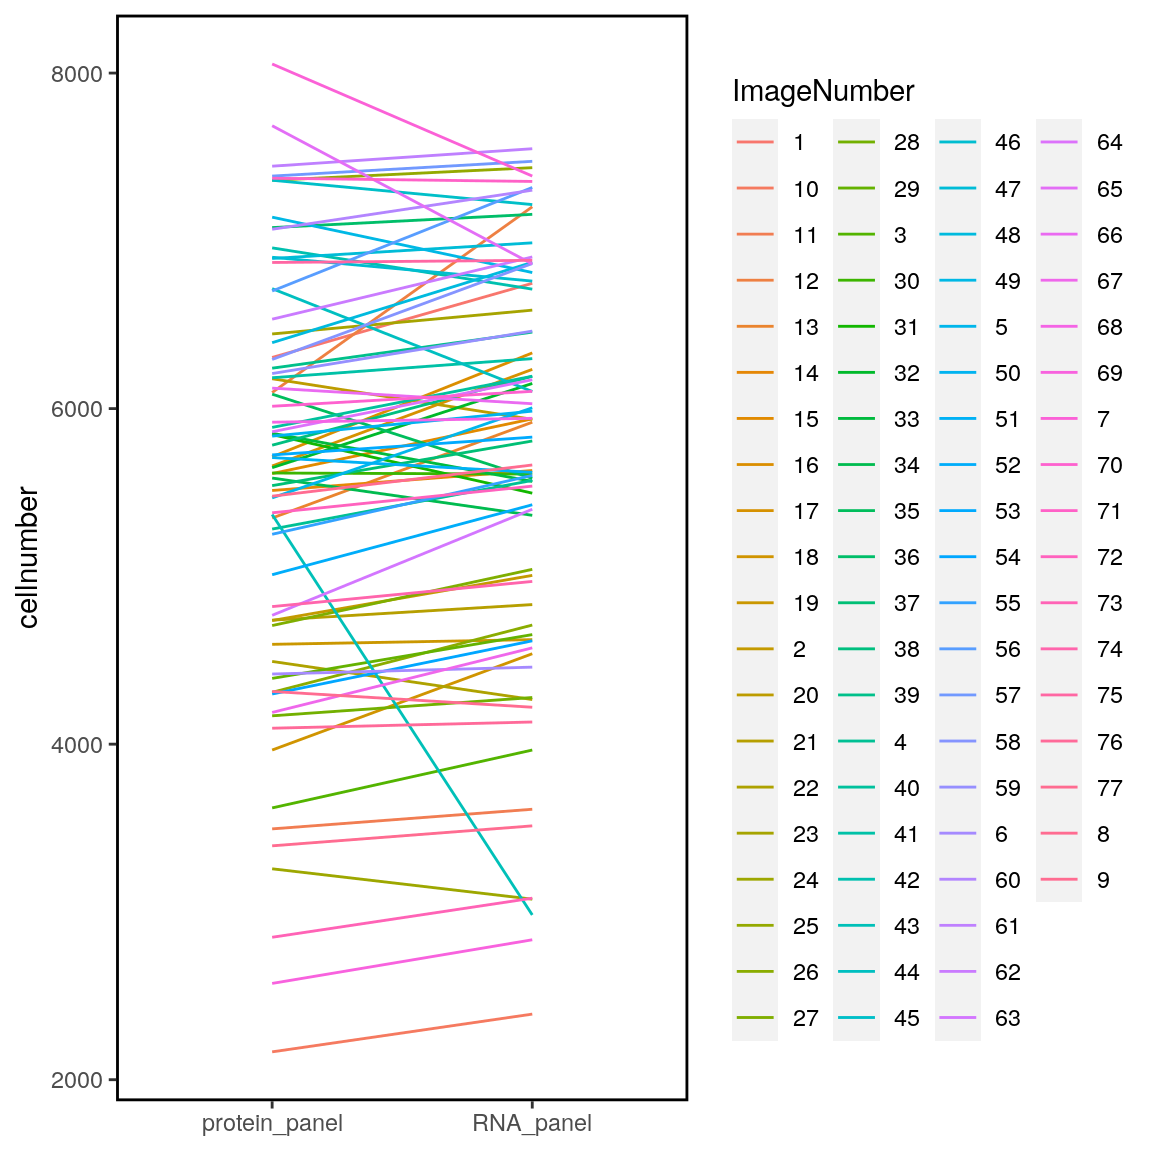
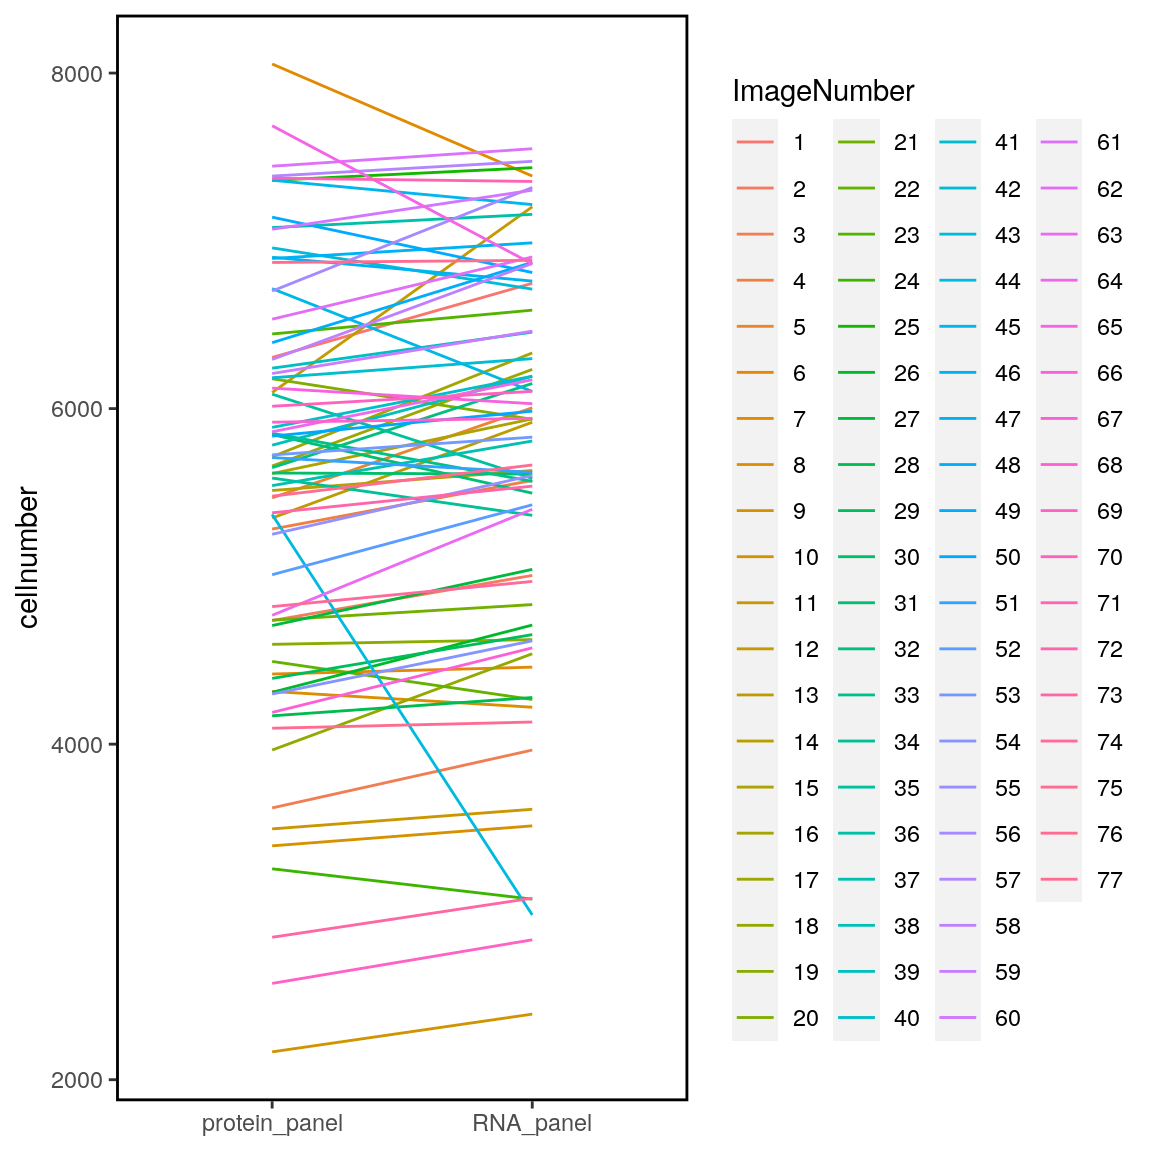
Build site.

diff --git a/docs/01_quality_control.html b/docs/01_quality_control.html
@@ -413,7 +413,7 @@ div.tocify {
 <div class="tab-content">
 <div id="summary" class="tab-pane fade in active">
 <p>
-<strong>Last updated:</strong> 2020-11-02
+<strong>Last updated:</strong> 2020-11-24
 </p>
 <p>
 <strong>Checks:</strong> <span class="glyphicon glyphicon-ok text-success" aria-hidden="true"></span> 7 <span class="glyphicon glyphicon-exclamation-sign text-danger" aria-hidden="true"></span> 0
@@ -504,16 +504,16 @@ This reproducible <a href="http://rmarkdown.rstudio.com">R Markdown</a> analysis
 <div class="panel panel-default">
 <div class="panel-heading">
 <p class="panel-title">
-<a data-toggle="collapse" data-parent="#workflowr-checks" href="#strongRepositoryversionstrongahrefhttpsgithubcomSandraTietscherBCexhIMCtree9d40eaa891f44424daff9b2f47e0e0c49599fdcdtargetblank9d40eaaa"> <span class="glyphicon glyphicon-ok text-success" aria-hidden="true"></span> <strong>Repository version:</strong> <a href="https://github.com/SandraTietscher/BCexh_IMC/tree/9d40eaa891f44424daff9b2f47e0e0c49599fdcd" target="_blank">9d40eaa</a> </a>
+<a data-toggle="collapse" data-parent="#workflowr-checks" href="#strongRepositoryversionstrongahrefhttpsgithubcomSandraTietscherBCexhIMCtreefabf77f75f398f4e77442ed746d588f3c62c4b0ftargetblankfabf77fa"> <span class="glyphicon glyphicon-ok text-success" aria-hidden="true"></span> <strong>Repository version:</strong> <a href="https://github.com/SandraTietscher/BCexh_IMC/tree/fabf77f75f398f4e77442ed746d588f3c62c4b0f" target="_blank">fabf77f</a> </a>
 </p>
 </div>
[2 lines of base64/hex data omitted]
 <div class="panel-body">
 <p>
 Great! You are using Git for version control. Tracking code development and connecting the code version to the results is critical for reproducibility.
 </p>
 <p>
-The results in this page were generated with repository version <a href="https://github.com/SandraTietscher/BCexh_IMC/tree/9d40eaa891f44424daff9b2f47e0e0c49599fdcd" target="_blank">9d40eaa</a>. See the <em>Past versions</em> tab to see a history of the changes made to the R Markdown and HTML files.
+The results in this page were generated with repository version <a href="https://github.com/SandraTietscher/BCexh_IMC/tree/fabf77f75f398f4e77442ed746d588f3c62c4b0f" target="_blank">fabf77f</a>. See the <em>Past versions</em> tab to see a history of the changes made to the R Markdown and HTML files.
 </p>
 <p>
 Note that you need to be careful to ensure that all relevant files for the analysis have been committed to Git prior to generating the results (you can use <code>wflow_publish</code> or <code>wflow_git_commit</code>). workflowr only checks the R Markdown file, but you know if there are other scripts or data files that it depends on. Below is the status of the Git repository when the results were generated:
@@ -523,26 +523,25 @@ Ignored files:
     Ignored:    analysis/.Rhistory
 
 Untracked files:
-    Untracked:  analysis/11_RNApanel_neighbourhood.Rmd
-    Untracked:  code/helper_functions/
-    Untracked:  data/Ki67_IHC.csv
-    Untracked:  data/ProteinPanel_TNK_clusters.csv
-    Untracked:  data/ProteinPanel_stromal_clusters.csv
-    Untracked:  data/ProteinPanel_tumor_stroma_clusters.csv
-    Untracked:  data/RNApanel_TNK_clusters.csv
-    Untracked:  data/RNApanel_stromal_clusters.csv
-    Untracked:  data/RNApanel_tumor_stroma_clusters.csv
+    Untracked:  CD11c_CD68_scatter.png
+    Untracked:  Neighbourhood_TLS_relative.pdf
+    Untracked:  Neighbourhood_TLS_relative.png
+    Untracked:  Neighbourhood_all_relative.pdf
+    Untracked:  Neighbourhood_all_relative.png
+    Untracked:  analysis/13_proteinPanel_neighbourhood_extended.Rmd
+    Untracked:  analysis/XX_RNApanel_neighbourhood.Rmd
+    Untracked:  cytokine_environment.png
     Untracked:  data/RNAseq_Tcells.rds
-    Untracked:  data/RNAseq_celltype_prop.csv
     Untracked:  data/RNAseq_epithelial.rds
     Untracked:  data/ROI_info_HIER.csv
-    Untracked:  data/ROI_info_HIER_TLSrevised.csv
     Untracked:  data/ROI_info_RNAscope.csv
-    Untracked:  data/ROI_info_RNAscope_TLSrevised.csv
-    Untracked:  data/TLS_scores.csv
     Untracked:  data/cpout/
-    Untracked:  data/cytof_celltype_prop.csv
     Untracked:  data/masks/
+    Untracked:  heatmap_markerexpression_myeloid_sub.png
+    Untracked:  neighbourhood_myeloid_TIGdifference.png
+    Untracked:  neighbourhood_myeloid_TLS_relative.png
+    Untracked:  neighbourhood_myeloid_all_relative.png
+    Untracked:  neighbourhood_myeloid_split_TLS.png
     Untracked:  output/ProteinPanel/
     Untracked:  output/RNApanel/
     Untracked:  output/TLS_score_25samples.png
@@ -552,11 +551,13 @@ Untracked files:
     Untracked:  output/sce_RNApanel_afterQC.rds
     Untracked:  output/sce_RNApanel_initial.rds
     Untracked:  output/sce_RNApanel_initial_TLSrevised.rds
+    Untracked:  test.pdf
+    Untracked:  test.png
+    Untracked:  test_Treg_enrichment.png
 
 Unstaged changes:
-    Modified:   analysis/07_proteinPanel_TNK_analysis.Rmd
-    Modified:   analysis/08_proteinPanel_neighbourhood.Rmd
-    Modified:   analysis/10_RNApanel_TNK_cytokines.Rmd
+    Modified:   analysis/05_proteinPanel_StromalSubclustering.Rmd
+    Modified:   analysis/11_RNAscope_cytokine_communities.Rmd
 
 </code></pre>
 <p>
@@ -595,6 +596,40 @@ Message
 </tr>
 </thead>
 <tbody>
+<tr>
+<td>
+Rmd
+</td>
+<td>
+<a href="https://github.com/SandraTietscher/BCexh_IMC/blob/fabf77f75f398f4e77442ed746d588f3c62c4b0f/analysis/01_quality_control.Rmd" target="_blank">fabf77f</a>
+</td>
+<td>
+SandraTietscher
+</td>
+<td>
+2020-11-24
+</td>
+<td>
+Minor plot changes
+</td>
+</tr>
+<tr>
+<td>
+html
+</td>
+<td>
+<a href="https://rawcdn.githack.com/SandraTietscher/BCexh_IMC/fbba4795a406403865a38ce1bbf0707381fe395b/docs/01_quality_control.html" target="_blank">fbba479</a>
+</td>
+<td>
+SandraTietscher
+</td>
+<td>
+2020-11-02
+</td>
+<td>
+Build site.
+</td>
+</tr>
 <tr>
 <td>
 Rmd
@@ -820,6 +855,7 @@ protein_cellnumber &lt;- table(sce_protein$ImageNumber, sce_protein$cellnumber) 
 df &lt;- data.frame(ImageNumber = levels(sce_RNA$ImageNumber), RNA_panel = RNA_cellnumber, protein_panel = protein_cellnumber)
 df &lt;- pivot_longer(df, 2:3, names_to = &quot;panel&quot;, values_to = &quot;cellnumber&quot;)
 
+df$ImageNumber &lt;- factor(df$ImageNumber, levels = 1:77)
 ggplot(df, aes(panel, cellnumber))+
   geom_line(aes(group=ImageNumber, color = ImageNumber))+
     theme(axis.title.x = element_blank(),
@@ -914,6 +950,17 @@ Date
 <tbody>
 <tr>
 <td>
+<a href="https://github.com/SandraTietscher/BCexh_IMC/blob/fbba4795a406403865a38ce1bbf0707381fe395b/docs/figure/01_quality_control.Rmd/plot-mean-intensity-RNApanel-1.png" target="_blank">fbba479</a>
+</td>
+<td>
+SandraTietscher
+</td>
+<td>
+2020-11-02
+</td>
+</tr>
+<tr>
+<td>
 <a href="https://github.com/SandraTietscher/BCexh_IMC/blob/1fe88dd28f09f7e44f454829e9d37601f4756b88/docs/figure/01_quality_control.Rmd/plot-mean-intensity-RNApanel-1.png" target="_blank">1fe88dd</a>
 </td>
 <td>
@@ -958,6 +1005,17 @@ Date
 </tr>
 </thead>
 <tbody>
+<tr>
+<td>
+<a href="https://github.com/SandraTietscher/BCexh_IMC/blob/fbba4795a406403865a38ce1bbf0707381fe395b/docs/figure/01_quality_control.Rmd/plot-mean-intensity-RNApanel-2.png" target="_blank">fbba479</a>
+</td>
+<td>
+SandraTietscher
+</td>
+<td>
+2020-11-02
+</td>
+</tr>
 <tr>
 <td>
 <a href="https://github.com/SandraTietscher/BCexh_IMC/blob/1fe88dd28f09f7e44f454829e9d37601f4756b88/docs/figure/01_quality_control.Rmd/plot-mean-intensity-RNApanel-2.png" target="_blank">1fe88dd</a>
@@ -1009,6 +1067,17 @@ Date
 <tbody>
 <tr>
 <td>
+<a href="https://github.com/SandraTietscher/BCexh_IMC/blob/fbba4795a406403865a38ce1bbf0707381fe395b/docs/figure/01_quality_control.Rmd/plot-mean-intensity-ProteinPanel-1.png" target="_blank">fbba479</a>
+</td>
+<td>
+SandraTietscher
+</td>
+<td>
+2020-11-02
+</td>
+</tr>
+<tr>
+<td>
 <a href="https://github.com/SandraTietscher/BCexh_IMC/blob/1fe88dd28f09f7e44f454829e9d37601f4756b88/docs/figure/01_quality_control.Rmd/plot-mean-intensity-ProteinPanel-1.png" target="_blank">1fe88dd</a>
 </td>
 <td>
@@ -1053,6 +1122,17 @@ Date
 </tr>
 </thead>
 <tbody>
+<tr>
+<td>
+<a href="https://github.com/SandraTietscher/BCexh_IMC/blob/fbba4795a406403865a38ce1bbf0707381fe395b/docs/figure/01_quality_control.Rmd/plot-mean-intensity-ProteinPanel-2.png" target="_blank">fbba479</a>
+</td>
+<td>
+SandraTietscher
+</td>
+<td>
+2020-11-02
+</td>
+</tr>
 <tr>
 <td>
 <a href="https://github.com/SandraTietscher/BCexh_IMC/blob/1fe88dd28f09f7e44f454829e9d37601f4756b88/docs/figure/01_quality_control.Rmd/plot-mean-intensity-ProteinPanel-2.png" target="_blank">1fe88dd</a>
@@ -1359,8 +1439,8 @@ SandraTietscher
 </div>
 <div id="save-updated-objects" class="section level1">
 <h1>Save updated objects</h1>
-<pre class="r"><code>saveRDS(sce_RNA, paste0(getwd(), &quot;/output/sce_RNApanel_afterQC.rds&quot;))
-saveRDS(sce_protein, paste0(getwd(), &quot;/output/sce_ProteinPanel_afterQC.rds&quot;))</code></pre>
+<pre class="r"><code>saveRDS(sce_RNA, &quot;output/sce_RNApanel_afterQC.rds&quot;)
+saveRDS(sce_protein, &quot;output/sce_ProteinPanel_afterQC.rds&quot;)</code></pre>
 <br>
 <p>
 <button type="button" class="btn btn-default btn-workflowr btn-workflowr-sessioninfo" data-toggle="collapse" data-target="#workflowr-sessioninfo" style="display: block;">
